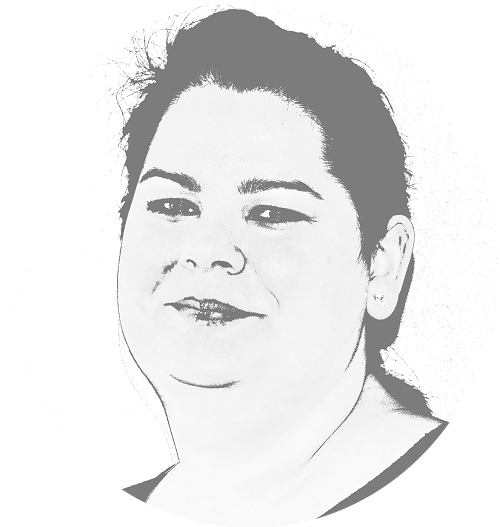
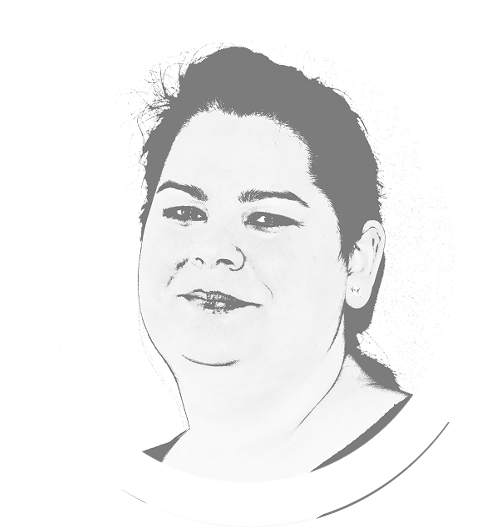
team img update

diff --git a/css/team-style.css b/css/team-style.css
@@ -165,6 +165,7 @@
 }
 
 .teamtext{
+	font-size:90%;
 	padding-left:10px;
 	padding-right:10px;
 }

diff --git a/index.php b/index.php
@@ -214,7 +214,7 @@ require_once 'common/topsegment.php';
                         </tr>
                         <tr>
                             <td class="teamtd teamtext">
-                                <span >A lehetőségeket nem csak megkapni kell, hanem tudni is kell velük élni!</span>
+                                <span >A lehetőségeket nem csak megkapni kell, hanem élni is tudni kell velük!</span>
                             </td>
                         </tr>
                     </table>
@@ -241,7 +241,7 @@ require_once 'common/topsegment.php';
                         </tr>
                         <tr>
                             <td class="teamtd teamtext">
-                                <span >Egy két mondat amivel összegezem miért szeretek a stúdió68nál dolgozni dolgozni</span>
+                                <span >Semmi sem fontosabb a szenvedélynél. Nem számít, mit csinálsz az életedben, azt szenvedéllyel tedd!</span>
                             </td>
                         </tr>
                     </table>
@@ -250,7 +250,7 @@ require_once 'common/topsegment.php';
                     <table class="teamtable">
                         <tr>
                             <td class="teamtd">
-                                <img class="teamimg" src="img/nobody.png"/>
+                                <img class="teamimg" src="img/robi_profil.png"/>
                             </td>
                         </tr>
                         <tr>
